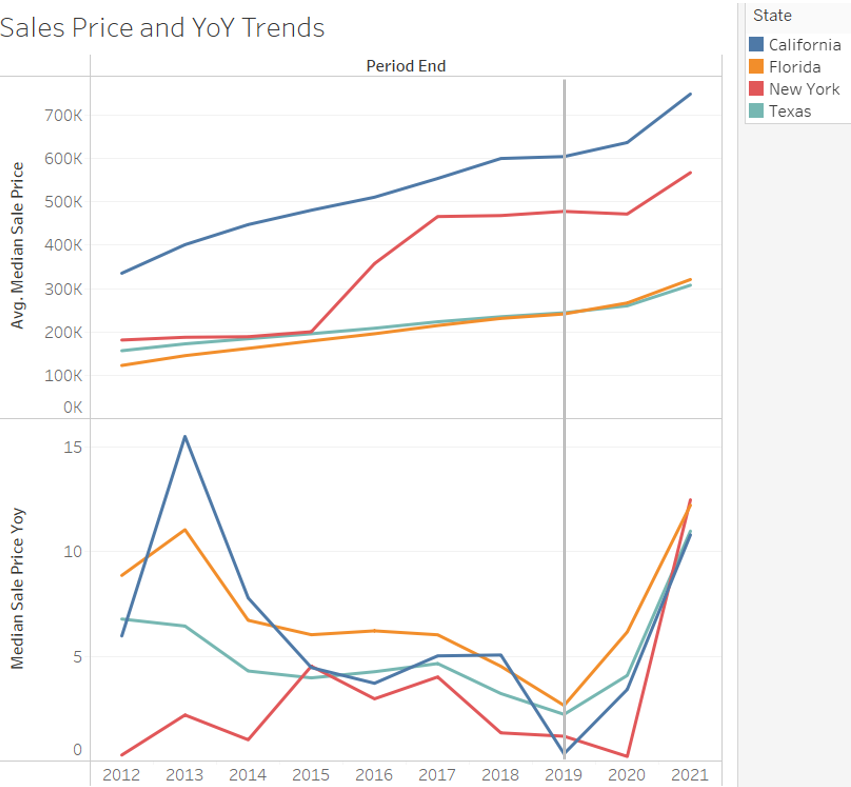
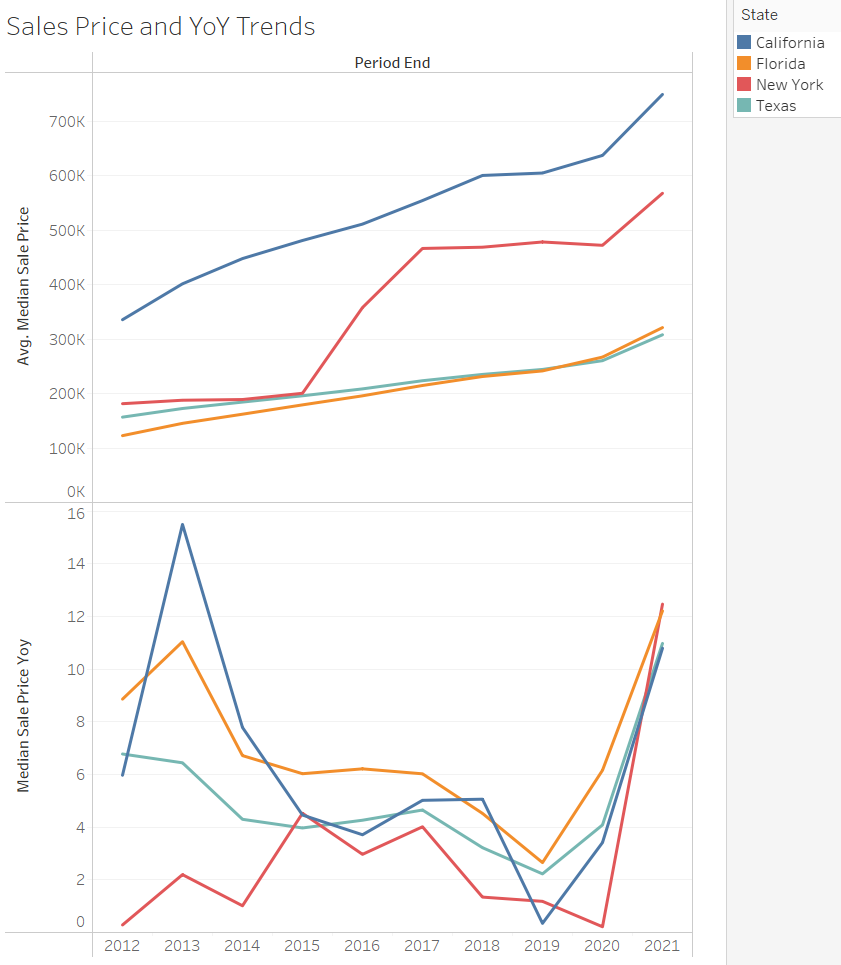
Revert "finalizing conclusions and results"
This reverts commit 466451ad8337c6431ac912adbec94084d6c87a5e.

diff --git a/Tableau/scott_results.md b/Tableau/scott_results.md
@@ -1,68 +1,39 @@
+alberto's branch "housing_migration.csv" is clean dataset
 
-## Hypothesis
-Population and migration trends would have a high correlation to housing prices.  Based on these migration trends, one would be able to predict price changes.
-
-## US Population Trends (2010-2019 Data)
 - US Population Growth by State
 ![US Population Growth by State](Results/total_us_population.png)
-US population grew 6% from 2010 to 2019.  Most states staying relatively flat, but a few states contributing more than others to these numbers.
 
 - Net population per state over time
-![Net Population change per state](Results/population_changes_map.gif)
-Map of the US showing population growth/decline from 2010 to 2019.  Makes it easy to identify if states have a net growth or decline over time.  Coastal, Wester, and Southern states showing the largest increase over time.
+![Net Population change per state](Results/population_changes_map.gif)  
 
-## US Real Estate Pricing Trends (2012-2022 Data)
-- Average Median Sales Price Heatmap
-![Average Sales Price per State Heatmap](Results/avg_sale_price_by_state_heatmap.png)  
-Almost all states got more expensive as time progressed, but population gains aren't signifigant in most of the states that gained.
-
-- Average Median Sales Price Year over Year (YoY) (% Gain/Decline)
-![Average sale price per stat YoY](Results/avg_sale_price_yoy_heatmap.png)  
-All states generally increasing at a faster pace through the later years
-
-- US Median Sales Price over Time 
-![Median Sales Price per State per Year](Results/median_sales_changes_map.gif)  
-Almost all states getting more expensive as time progresses - midwest and a select few dont increase as much.  Coastal states as well as Colorado and Texas grow the most.
-
-
-## Closer Look at Outlier States
-- Population Data over time by state 
+- All states net population change over time - California, Florida, New York, and Texas were noteable outliers.
 ![Net Population Change All States Per year](Results/net_population_change_all_states.png)  
-California, Florida, New York, and Texas were noteable outliers.
 
 - Downselected states
-![Net Population Change "Downselected" States Per year](Results/net_population_change_downselected_states.png)  
-Outlier states with large population increases over time are California, Florida, and Texas.  New York suprisingly had a large decline in population in 2018.
+![Net Population Change "Downselected" States Per year](Results/net_population_change_downselected_states.png)
 
+
+- Almost all states got more expensive - some states stayed flat  
+![Average Sales Price per State Heatmap](Results/avg_sale_price_by_state_heatmap.png)  
+
+- YoY numbers are percentages - All states generally increasing at a faster pace through the later years
+![Average sale price per stat YoY](Results/avg_sale_price_yoy_heatmap.png)  
+
+- Almost all states getting more expensive as time progresses - midwest and a select few dont increase as much.  Coastal states as well as Colorado and Texas grow the most.
+![Median Sales Price per State per Year](Results/median_sales_changes_map.gif)  
 
 - Sales Price and YoY trends for downselected states
 ![Sales Price and YoY trends for downselected states](Results/sale_price_and_yoy_trend_downselected_states.png)  
-As population growth slowed down or declined in California and New York, there is a flattening of price growth.  However, Florida and Texas house prices continue to grow at relatively the same rate, even though population growth was declining.  This validates there not being a strong correlation between population and home price.  Vertical Line represents where population data cuts off. 
 
 - Sales, Inventory, and homes sold for downselected states
 ![Sales, Inventory, and homes sold for downselected states](Results/sales_vs_inventory_downselected_states.png)  
-Similar to the Price and YoY trends, not a strong correlation between population changes and Inventory / Homes Sold.  Trends remain unchanged even though population growth is changing.
 
 
 
- 
-
-Conclusions:
-- Based on analyzing the datasets, we see that during this time scale, net population change does not have a strong correlation with housing prices.
-- Initially we were looking at state to state migrations, but we realized we were missing the net population growth/decline of each state per year.  We knew that 100k people moved into a state and from where, but we did not know how many people moved out so the initial analysis was misleading.  This led us to calculate the "Net Population Change" for each state per year.
-    - Moves from California to show interesting data, however without the net population change, this data wasnt very helpful to determine real estate prices at a State level.
-    ![Moves from California](Results/moves_from_california.png) 
+- Moves from California
+![Moves from California](Results/moves_from_california.png)  
 
 
-Limitations:
-- Data sets didnt fully overlap on timescale.  The main driver for this hypothesis was trying to determine correlation between population growth and housing prices in states where a lot of people moved during the COVID-19 pandemic.
-- Had to create "net population change" so "lost" 2010 data as this was used as the baseline to measure from.
 
 
-- pick out hawaii as not much population growth but a crazy amount of price increase??
-
-Future Items:
-- Ratio of "Net Population Change" vs Average Median Home Price per state per year.  This could distill all these graphs into one metric and show any potential correlation/outliers
-- Find additional datasets to cover population/migration during COVID-19
-    - States like Idaho had extreme YoY prices increases during the pandemic, and it seems as though this could have been caused by the migration of people to states like this
-- Bring in additional metrics such as job growth to determine additional correlation to housing prices in a region.
+anything we would want to do that we werent able to accomplish???
